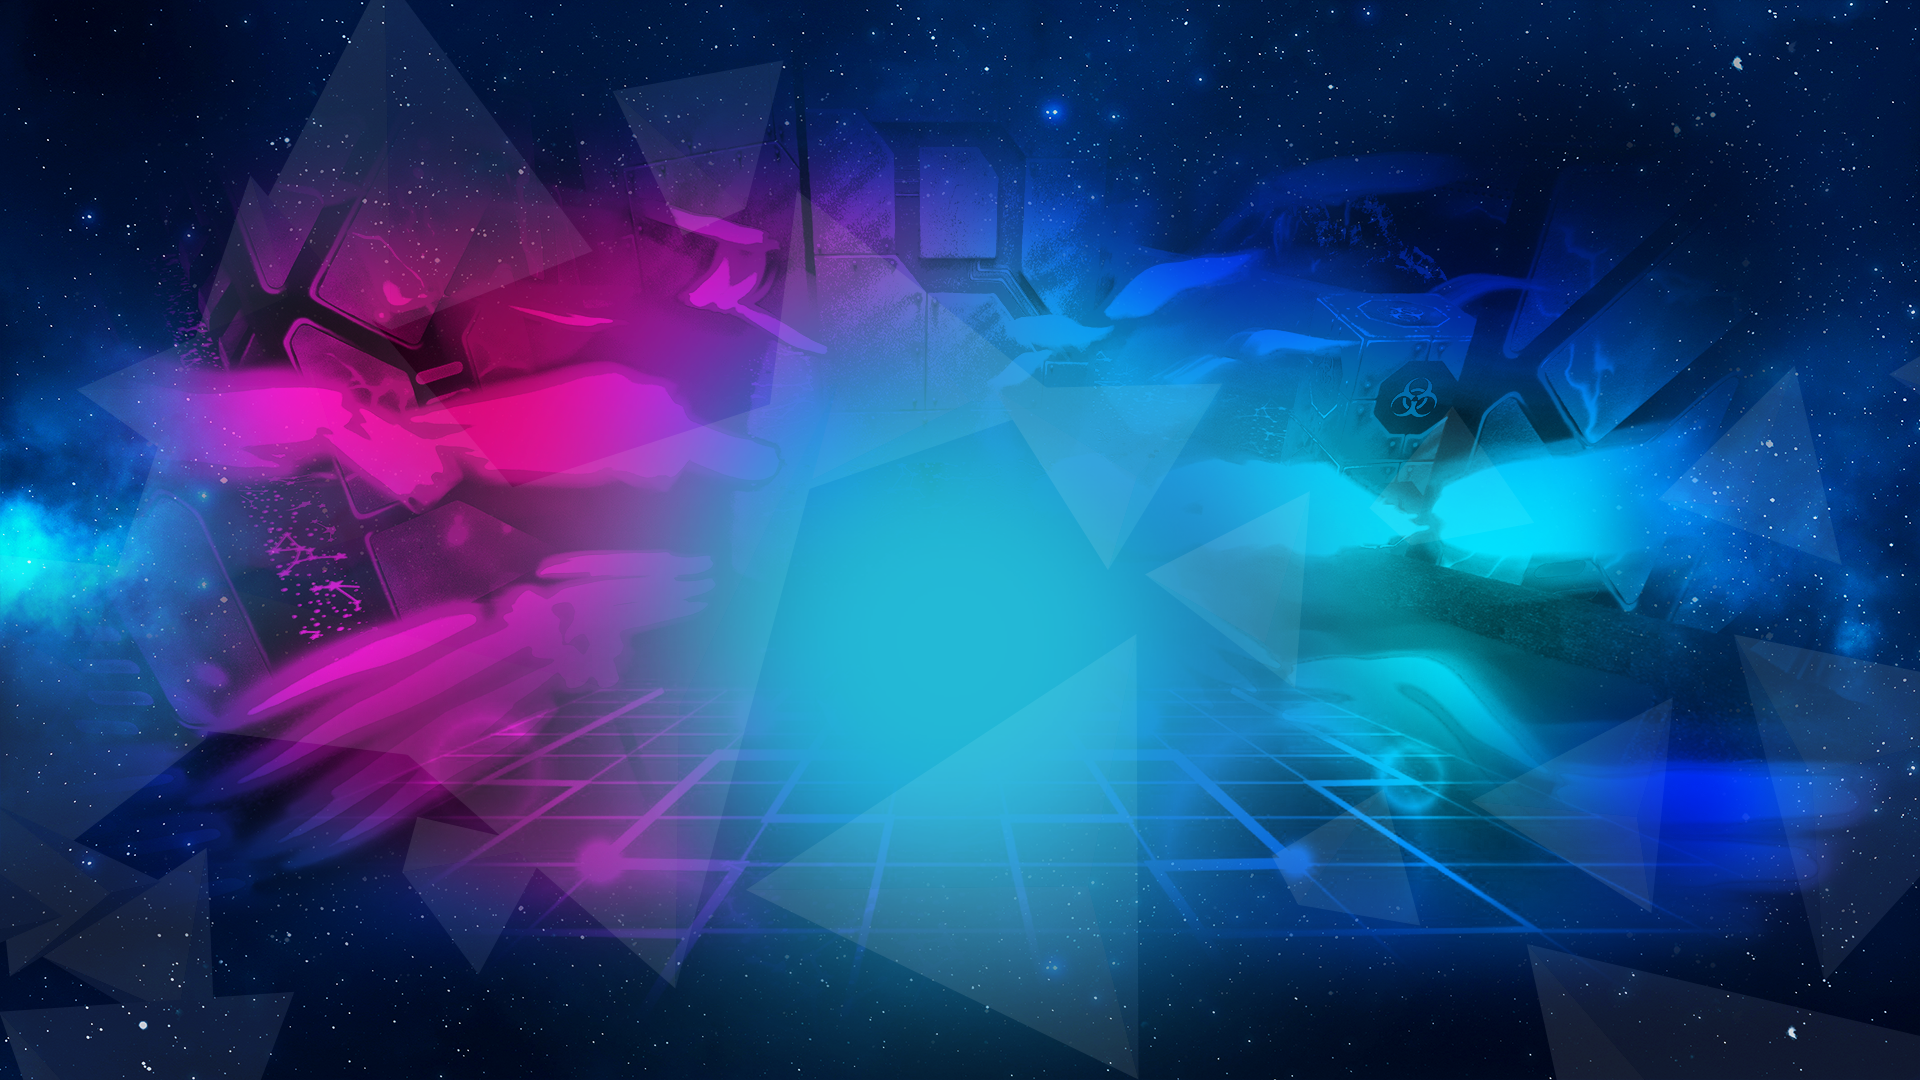
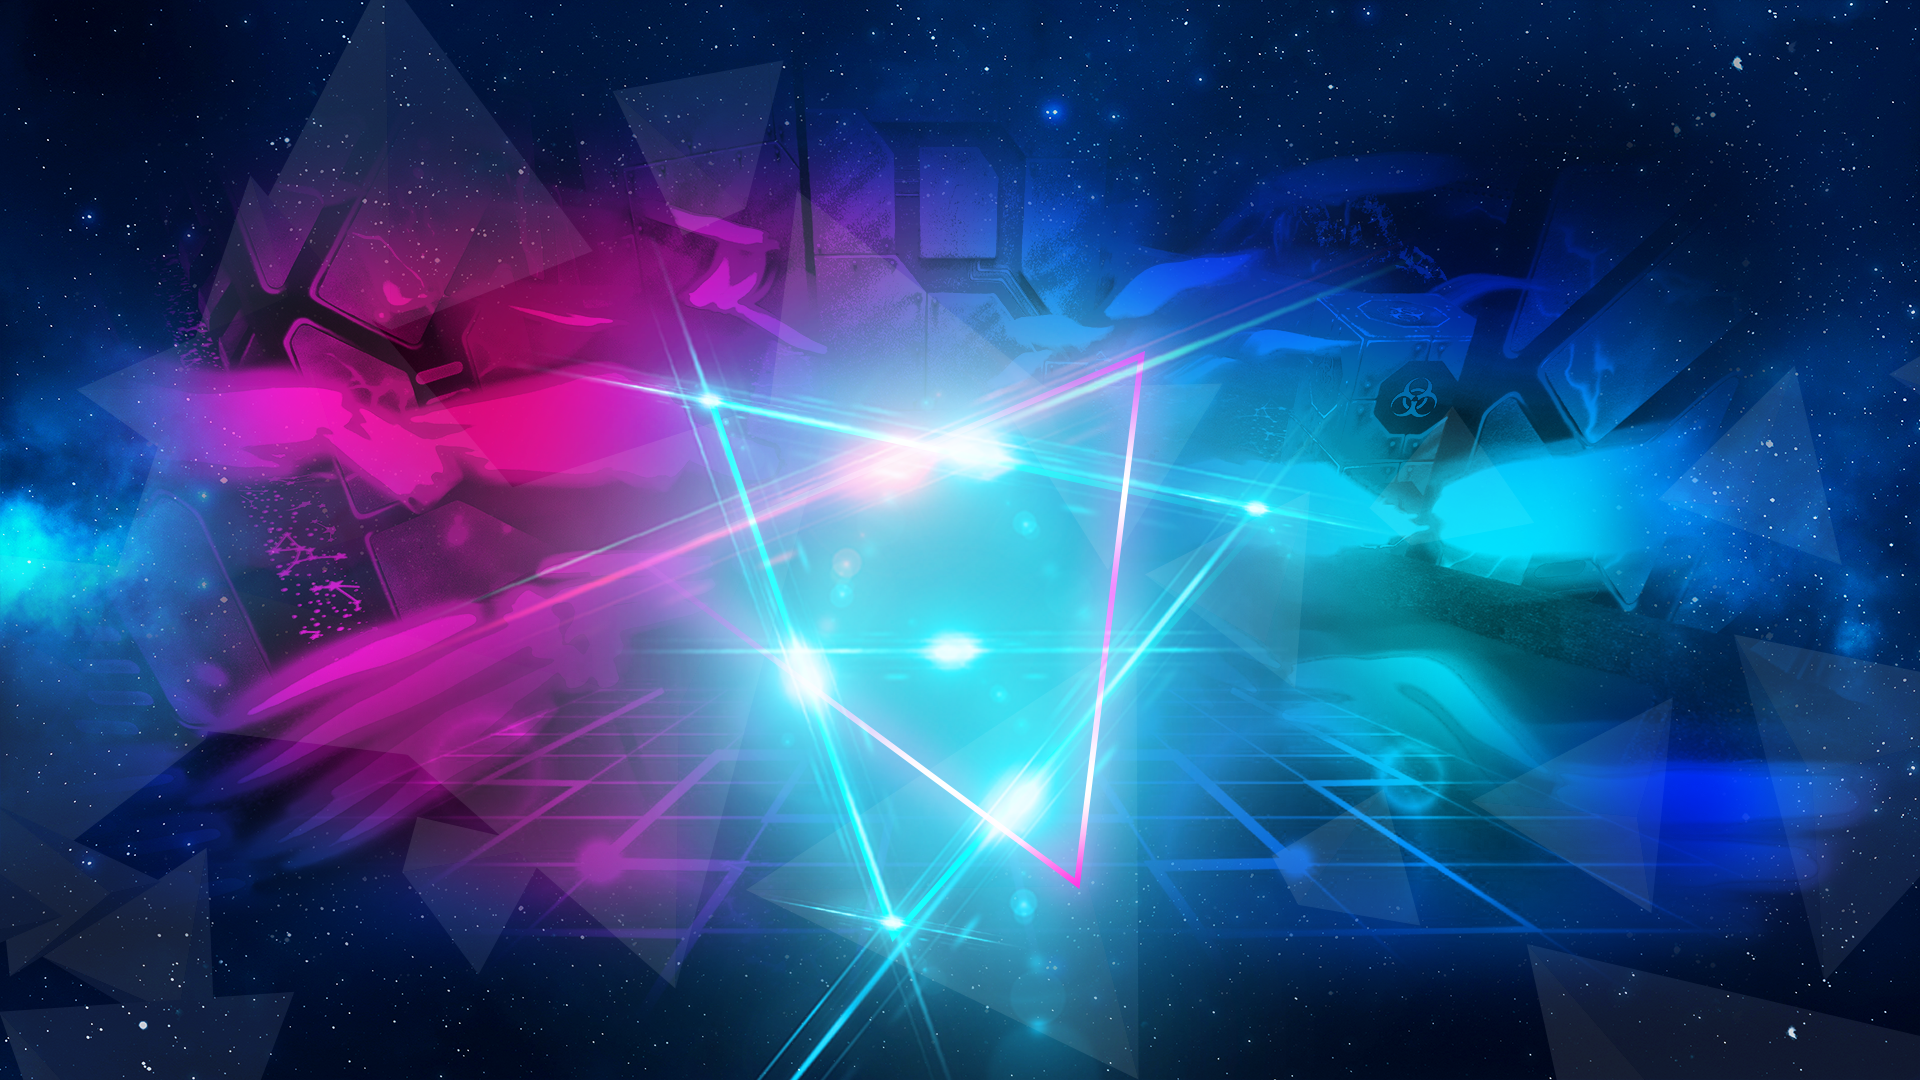
add animation

Changed region(s): [[0.25, 0.275, 0.6875, 1.0]]

diff --git a/index.html b/index.html
@@ -9,11 +9,27 @@
     <link rel="stylesheet" href="./css/main.css">
 </head>
 <body>
+    <div id="particles-js"></div>
     <main class="container">
         <header>
-            <h1>SPORDI- JA MEELELAHUTUS KESKUS LAZERZONE</h1>
+            <div class="glitch" data-text="Strobocops">
+                <span class="glitch__color glitch__color--red">SPORDI- JA MEELELAHUTUS KESKUS LAZERZONE</span>
+                <span class="glitch__color glitch__color--blue">SPORDI- JA MEELELAHUTUS KESKUS LAZERZONE</span>
+                <span class="glitch__color glitch__color--green">SPORDI- JA MEELELAHUTUS KESKUS LAZERZONE</span>
+                <span class="glitch__main">SPORDI- JA MEELELAHUTUS KESKUS LAZERZONE</span>
+                <span class="glitch__line glitch__line--first"></span>
+                <span class="glitch__line glitch__line--second"></span>
+            </div>
         </header>
-        <img src="/img/logo.png" alt="Lazer Zone logo icon" class="main-logo">
+        <img src="./img/logo.png" alt="Lazer Zone logo icon" class="main-logo">
+
+        <img src="./img/declogo1.png" alt="Lazer Zone logo decoration icon" class="decoration-logo-1">
+        <img src="./img/declogo2.png" alt="Lazer Zone logo decoration icon" class="decoration-logo-2">
+        <img src="./img/declogo3.png" alt="Lazer Zone logo decoration icon" class="decoration-logo-3">
+        <img src="./img/declogo4.png" alt="Lazer Zone logo decoration icon" class="decoration-logo-4">
+        <img src="./img/declogo5.png" alt="Lazer Zone logo decoration icon" class="decoration-logo-5">
+        <img src="./img/declogo6.png" alt="Lazer one logo decoration icon" class="decoration-logo-6">
+
         <footer>
             <a href="https://www.facebook.com/lazerzone" target="_blank">
                 <img src="./img/facebook.png" alt="Facebook logo icon" class="facebook-logo">
@@ -26,5 +42,155 @@
             </a>
         </footer>
     </main>
+    <script src="https://code.jquery.com/jquery-1.11.0.min.js"></script>
+    <script src="https://cdn.jsdelivr.net/particles.js/2.0.0/particles.min.js"></script>
+    <script>
+    particlesJS("particles-js", {
+  "particles": {
+    "number": {
+      "value": 180,
+      "density": {
+        "enable": true,
+        "value_area": 1600
+      }
+    },
+    "color": {
+      "value": "#ffffff"
+    },
+    "shape": {
+      "type": "circle",
+      "stroke": {
+        "width": 0,
+        "color": "#000000"
+      },
+      "polygon": {
+        "nb_sides": 5
+      },
+      "image": {
+        "src": "img/github.svg",
+        "width": 100,
+        "height": 100
+      }
+    },
+    "opacity": {
+      "value": 0.5,
+      "random": false,
+      "anim": {
+        "enable": false,
+        "speed": 1,
+        "opacity_min": 0.1,
+        "sync": false
+      }
+    },
+    "size": {
+      "value": 3,
+      "random": true,
+      "anim": {
+        "enable": false,
+        "speed": 40,
+        "size_min": 0.1,
+        "sync": false
+      }
+    },
+    "line_linked": {
+      "enable": true,
+      "distance": 150,
+      "color": "#ffffff",
+      "opacity": 0.4,
+      "width": 1
+    },
+    "move": {
+      "enable": true,
+      "speed": 6,
+      "direction": "none",
+      "random": false,
+      "straight": false,
+      "out_mode": "out",
+      "bounce": false,
+      "attract": {
+        "enable": false,
+        "rotateX": 600,
+        "rotateY": 1200
+      }
+    }
+  },
+  "interactivity": {
+    "detect_on": "canvas",
+    "events": {
+      "onhover": {
+        "enable": true,
+        "mode": "grab"
+      },
+      "onclick": {
+        "enable": true,
+        "mode": "push"
+      },
+      "resize": true
+    },
+    "modes": {
+      "grab": {
+        "distance": 140,
+        "line_linked": {
+          "opacity": 1
+        }
+      },
+      "bubble": {
+        "distance": 400,
+        "size": 40,
+        "duration": 2,
+        "opacity": 8,
+        "speed": 3
+      },
+      "repulse": {
+        "distance": 200,
+        "duration": 0.4
+      },
+      "push": {
+        "particles_nb": 4
+      },
+      "remove": {
+        "particles_nb": 2
+      }
+    }
+  },
+  "retina_detect": true
+});
+
+        var logo1 = $('.decoration-logo-1');
+        var logo2 = $('.decoration-logo-2');
+        var logo3 = $('.decoration-logo-3');
+        var logo4 = $('.decoration-logo-4');
+        var logo5 = $('.decoration-logo-5');
+        var logo6 = $('.decoration-logo-6');
+
+        $(window).mousemove(function(e) {
+           var change;
+           var xpos = e.clientX;
+           var ypos = e.clientY;
+           var left = change * 20;
+
+           xpos = xpos * 2;
+           ypos = ypos * 2;
+
+           logo1.css('top', 'calc(25% + ' + (ypos / 50) + 'px)');
+           logo1.css('left', 'calc(-15% + ' + (xpos / 80) + 'px)');
+
+           logo2.css('bottom', 'calc(10% + ' + (ypos / 80) + 'px)');
+           logo2.css('left', 'calc(-15% - ' + (xpos / 50) + 'px)');
+
+           logo3.css('top', 'calc(45% - ' + (ypos / 40) + 'px)');
+           logo3.css('left', 'calc(15% + ' + (xpos / 140) + 'px)');
+
+           logo4.css('top', 'calc(17% - ' + (ypos / 80) + 'px)');
+           logo4.css('right', 'calc(-10% - ' + (xpos / 30) + 'px)');
+
+           logo5.css('top', 'calc(50%; + ' + (ypos / 70) + 'px)');
+           logo5.css('right', 'calc(-5% + ' + (xpos / 60) + 'px)');
+
+           logo6.css('top', 'calc(60% - ' + (ypos / 30) + 'px)');
+           logo6.css('right', 'calc(15% + ' + (xpos / 60) + 'px)');
+
+         });
+    </script>
 </body>
 </html>

diff --git a/css/main.css b/css/main.css
@@ -4,10 +4,11 @@
 }
 @font-face {
     font-family: 'Medium';
-    src: url('./css/medium_evo.otf') format('opentype');
+    src: url('./medium_evo.otf') format('opentype');
 }
 html {
     background-color: #035ba5;
+    overflow: hidden;
 }
 body {
     font-family: roboto mono, roboto, system-ui;
@@ -17,12 +18,18 @@ body {
     -webkit-text-size-adjust: 100%;
     -ms-text-size-adjust: 100%;
     min-height: 100vh;
-    background-image: url('./css/img/bg.png');
+    background-image: url('../img/bg.jpg');
     background-position: center;
     background-repeat: no-repeat;
     background-size: cover;
     height: 100vh;
     overflow: hidden;
+}
+#particles-js {
+  position: absolute;
+  width: 100%;
+  height: 100%;
+
 }
 .container {
   padding-right: 15px;
@@ -54,7 +61,7 @@ h1 {
     text-align: center;
     text-transform: uppercase;
 }
-h1:before {
+.glitch:before {
 	content:'';
 	display: block;
 	width: 100%;
@@ -64,7 +71,7 @@ h1:before {
     left: 0;
     top: -25px;
 }
-h1:after {
+.glitch:after {
     content:'';
 	display: block;
 	width: 100%;
@@ -93,7 +100,151 @@ footer img.facebook-logo {
     width: 40%
 }
 
+.decoration-logo-1 {
+    position: absolute;
+    top: 25%;
+    left: -15%;
+}
+.decoration-logo-2 {
+    position: absolute;
+    bottom: 10%;
+    left: -15%;
+}
+.decoration-logo-3 {
+    position: absolute;
+    top: 45%;
+    left: 15%;
+}
+.decoration-logo-4 {
+    position: absolute;
+    top: 17%;
+    right: -10%;
+}
+.decoration-logo-5 {
+    position: absolute;
+    top: 50%;
+    right: -5%;
+}
+.decoration-logo-6 {
+    position: absolute;
+    top: 60%;
+    right: 15%;
+    opacity: 0.5;
+}
 
+.glitch {
+  animation: glitch-skew 4s cubic-bezier(0.25, 0.46, 0.45, 0.94) 4s infinite;
+  font-family: 'Medium';
+  color: #fff;
+  font-size: 50px;
+  position: relative;
+  width: 100%;
+  text-align: center;
+  text-transform: uppercase;
+  position: relative;
+  text-align: center;
+  transform-origin: center top;
+}
+.glitch__main {
+  color: #fff;
+}
+.glitch__color {
+  height: 100%;
+  left: 0;
+  opacity: 0.8;
+  position: absolute;
+  top: 0;
+  transform-origin: center center;
+  width: 100%;
+  z-index: -1;
+}
+.glitch__color--red {
+  animation: glitch 300ms cubic-bezier(0.25, 0.46, 0.45, 0.94) infinite;
+  color: #dd108d;
+}
+.glitch__color--blue {
+  animation: glitch 300ms cubic-bezier(0.25, 0.46, 0.45, 0.94) infinite reverse;
+  color: #27ffff;
+}
+.glitch__color--green {
+  animation: glitch 300ms cubic-bezier(0.25, 0.46, 0.45, 0.94) 100ms infinite;
+  color: #2f292d;
+}
+.glitch__line {
+  animation: glitch-line 2s linear infinite;
+  background: #000;
+  content: '';
+  height: 1px;
+  left: 0;
+  position: absolute;
+  top: 0;
+  width: 100%;
+  z-index: 1;
+}
+.glitch__line--first {
+  animation: glitch-line 2s linear infinite;
+}
+.glitch__line--second {
+  animation: glitch-line 1s linear 1s infinite;
+}
+
+footer a {
+    transition: .3s;
+}
+footer a:hover {
+    transform: scale(1.5);
+}
+@keyframes glitch {
+  0% {
+    transform: translate(0);
+  }
+  20% {
+    transform: translate(-8px, 8px);
+  }
+  40% {
+    transform: translate(-8px, -8px);
+  }
+  60% {
+    transform: translate(8px, 8px);
+  }
+  80% {
+    transform: translate(8px, -8px);
+  }
+  100% {
+    transform: translate(0);
+  }
+}
+@keyframes glitch-skew {
+  0% {
+    transform: skew(0deg, 0deg);
+  }
+  48% {
+    transform: skew(0deg, 0deg);
+    filter: blur(0);
+  }
+  50% {
+    transform: skew(-20deg, 0deg);
+    filter: blur(4px);
+  }
+  52% {
+    transform: skew(20deg, 0deg);
+  }
+  54% {
+    transform: skew(0deg, 0deg);
+    filter: blur(0);
+  }
+  100% {
+    transform: skew(0deg, 0deg);
+  }
+}
+@keyframes glitch-line {
+  0% {
+    top: 0;
+  }
+  100% {
+    top: 100%;
+  }
+}
 @media (min-width: 768px) {
   .container {
     width: 750px;
